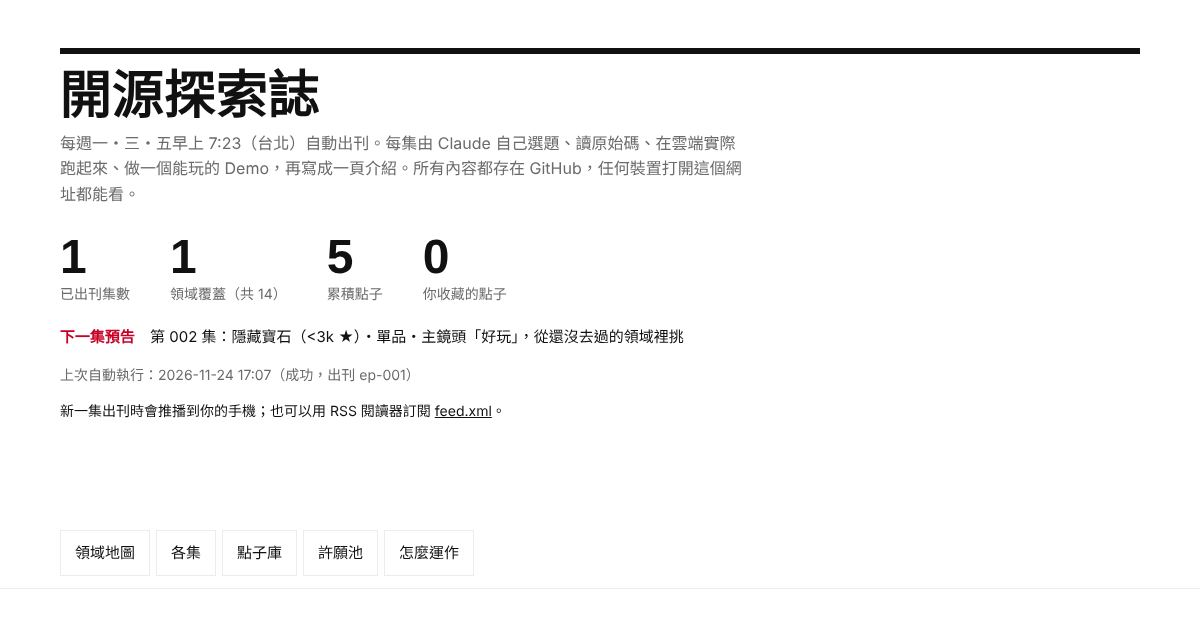
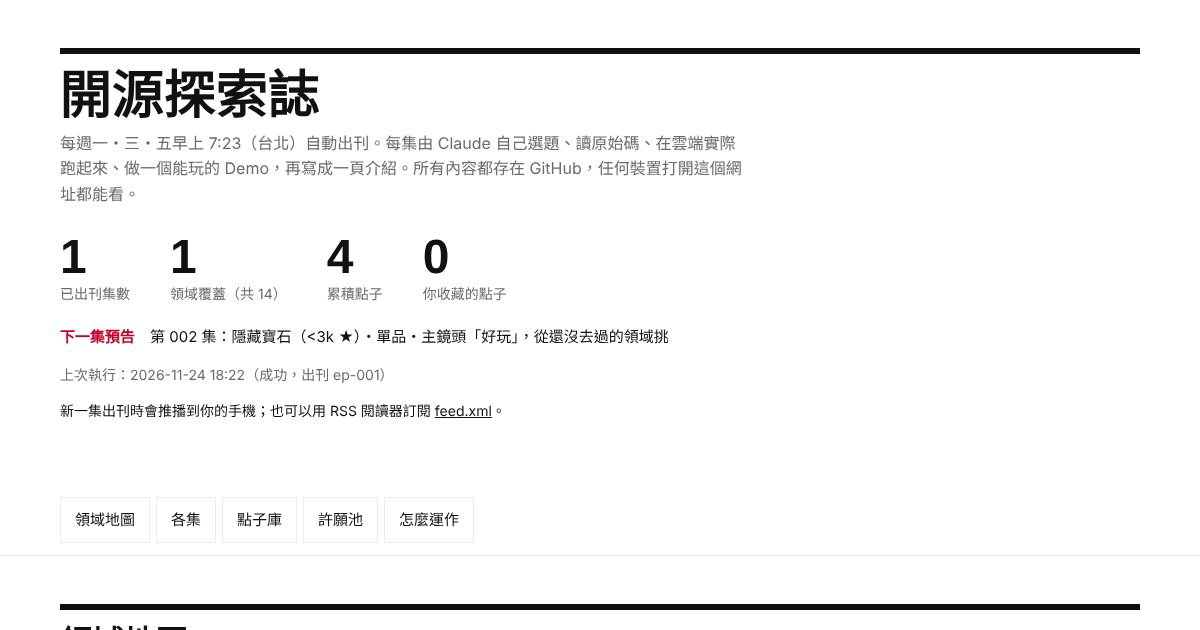
第 001 集：線上實玩後的修正（圖上直接拖動對照、手機版背景選項位置、授權改成表格、表格斷行）；首頁不顯示非數字星數
Claude-Session: https://claude.ai/code/session_015RxxCeQkojGTc1MStvDqzw

diff --git a/ep-001-rembg/index.html b/ep-001-rembg/index.html
@@ -48,7 +48,7 @@ button[aria-pressed=true]{border-color:var(--ink);box-shadow:inset 0 0 0 1px var
 .checker{background-color:var(--chk1);background-image:conic-gradient(var(--chk2) 25%,transparent 0 50%,var(--chk2) 0 75%,transparent 0);background-size:22px 22px}
 /* 去背台 */
 .desk{display:grid;grid-template-columns:minmax(0,300px) minmax(0,1fr);gap:18px;align-items:start}
-@media(max-width:860px){.desk{display:flex;flex-direction:column}.desk>.panel{display:contents}.desk>.panel>*{order:3}.desk>.panel>:first-child{order:1}.desk>.stagecol{order:2}}
+@media(max-width:860px){.desk{display:flex;flex-direction:column}.desk>.panel{display:contents}.desk>.panel>*{order:4}.desk>.panel>:first-child{order:1}.desk>.stagecol{order:2}.desk>.panel>.bgwrap{order:3}}
 .panel{display:grid;gap:16px}
 .panel .pt{margin:0 0 8px;font-size:15px;color:var(--mute);font-weight:600}
 .samples{display:grid;grid-template-columns:repeat(3,minmax(0,1fr));gap:8px}
@@ -61,7 +61,7 @@ button[aria-pressed=true]{border-color:var(--ink);box-shadow:inset 0 0 0 1px var
 .stats{display:grid;grid-template-columns:repeat(2,minmax(0,1fr));gap:10px;background:var(--card);border-radius:12px;padding:12px 14px}
 .stats div{font-size:13px;color:var(--mute)}.stats b{display:block;font:700 22px/1.2 var(--head);color:var(--ink);font-variant-numeric:tabular-nums}
 .private{font-size:13px;color:var(--mute);margin:0}
-.stage{position:relative;border-radius:16px;overflow:hidden;border:1px solid var(--line);aspect-ratio:3/2;display:grid;place-items:center}
+.stage{position:relative;border-radius:16px;overflow:hidden;border:1px solid var(--line);aspect-ratio:3/2;display:grid;place-items:center;cursor:ew-resize;touch-action:pan-y;user-select:none;-webkit-user-select:none}
 .stage canvas{position:absolute;inset:0;width:100%;height:100%;object-fit:contain}
 .stage .orig{clip-path:inset(0 calc(100% - var(--split,40%)) 0 0)}
 .stage .line{position:absolute;top:0;bottom:0;left:var(--split,40%);width:3px;background:var(--cut);transform:translateX(-1px);pointer-events:none;box-shadow:0 0 0 1px rgba(0,0,0,.15)}
@@ -97,6 +97,7 @@ table{border-collapse:collapse;width:100%;font-size:15px}
 th,td{text-align:left;padding:9px 10px;border-bottom:1px solid var(--line);vertical-align:top}
 th{font-weight:600;color:var(--mute);font-size:14px}
 td.n{text-align:right;font-variant-numeric:tabular-nums;white-space:nowrap}
+td:first-child{white-space:nowrap}
 .scroll{overflow-x:auto}
 #run .scroll:last-of-type table{max-width:860px}
 pre{background:var(--card);border-radius:12px;padding:14px 16px;font:14px/1.6 var(--mono);overflow-x:auto;margin:6px 0 0}
@@ -139,7 +140,7 @@ footer{color:var(--mute);font-size:14px}
         <input type="file" id="file" accept="image/*">
         <span>＋ 用你自己的照片（或拖曳到畫布上）</span>
       </label>
-      <div>
+      <div class="bgwrap">
         <p class="pt">背景</p>
         <div class="bgs" id="bgs">
           <button type="button" data-bg="checker" aria-pressed="true">透明</button>
@@ -155,7 +156,7 @@ footer{color:var(--mute);font-size:14px}
         <div><b id="sSize">–</b>圖片尺寸</div>
         <div><b id="sFg">–</b>前景比例</div>
       </div>
-      <p class="private">整個過程都在你的瀏覽器裡完成：照片沒有上傳到任何伺服器。網頁下載的只有模型（4.4 MB）、ONNX 執行引擎（約 15 MB）和字型。</p>
+      <p class="private">整個過程都在你的瀏覽器裡完成：照片沒有上傳到任何伺服器。網頁下載的只有模型（4.4 MB）、ONNX 執行引擎（檔案約 15 MB，傳輸時壓縮成約 4 MB）和字型。</p>
     </div>
     <div class="stagecol">
       <div class="stage checker" id="stage">
@@ -169,7 +170,7 @@ footer{color:var(--mute);font-size:14px}
       <input class="split" id="split" type="range" min="0" max="100" value="40" aria-label="原圖與去背結果的對照位置">
       <div class="stage-actions">
         <button type="button" id="download" disabled>下載 PNG</button>
-        <span class="note">拖動滑桿比較前後；下載的 PNG 會套用你選的背景（透明就保留透明）。</span>
+        <span class="note">直接在圖上左右拖（或用滑桿）比較前後；下載的 PNG 會套用你選的背景（透明就保留透明）。</span>
       </div>
       <p class="msg" id="msg" role="status"></p>
     </div>
@@ -253,8 +254,8 @@ footer{color:var(--mute);font-size:14px}
   <div class="scroll" style="margin-top:14px"><table class="stack"><thead><tr><th>模型</th><th>模型大小</th><th>咖啡杯</th><th>貓</th><th>火箭</th><th>行程 RSS 峰值（累計）</th><th>與 isnet 一致度（咖啡杯／貓／火箭）</th></tr></thead><tbody id="benchRows"></tbody></table></div>
   <p class="note">時間是 rembg Python 版每張圖 3 次的中位數。記憶體是依表格順序在同一個 Python 行程裡跑完該模型後的 RSS 峰值，包含函式庫本身的用量與前面的模型，只能看趨勢。「一致度」是各模型的遮罩跟 isnet-general-use 的 IoU，<b>不是準確率</b>（沒有人工標註的正解），只用來看模型之間差多少。birefnet-general-lite（224 MB）也試了，但單獨推論一張圖就用掉超過 6 GB 記憶體，在 8 GB 的機器上被系統終止，所以沒有列入。</p>
   <h3>B. 瀏覽器版跟 Python 版一樣嗎？</h3>
-  <p>上面的 Demo 是我照 rembg 的前後處理重寫成 JavaScript 的。用 Playwright 開真的 Chromium，對三張範例照片各跑三次取中位數，再跟 rembg Python 版在<b>同一張照片</b>上算出的遮罩比對。最後一欄是對照組：同樣用 Python，只把輸入從 scikit-image 原圖換成網頁上壓縮過的 JPEG，差異有多大。</p>
-  <div class="scroll"><table class="stack"><thead><tr><th>照片</th><th>瀏覽器推論時間</th><th>遮罩 IoU（瀏覽器 vs Python）</th><th>平均每像素差異（0–255）</th><th>對照：原圖 vs JPEG 的 IoU（都用 Python）</th></tr></thead><tbody id="parityRows"></tbody></table></div>
+  <p>上面的 Demo 是我照 rembg 的前後處理重寫成 JavaScript 的。用 Playwright 開真的 Chromium，對三張範例照片各跑三次取中位數，再跟 rembg Python 版在<b>同一張照片</b>上算出的遮罩比對。「對照組」那一欄：同樣用 Python，只把輸入從 scikit-image 原圖換成網頁上壓縮過的 JPEG，差異有多大。</p>
+  <div class="scroll"><table class="stack"><thead><tr><th>照片</th><th>瀏覽器推論時間</th><th>遮罩 IoU（瀏覽器 vs Python）</th><th>平均每像素差異（0–255）</th><th>對照組 IoU</th></tr></thead><tbody id="parityRows"></tbody></table></div>
   <p class="note" id="parityNote"></p>
 </section>
 
@@ -298,7 +299,18 @@ const prob = out[session.outputNames[0]].data;   // 320×320 的前景機率，m
 <section class="band" data-section="limits" id="limits">
   <h2>限制與比較</h2>
   <ul class="pit">
-    <li><b>程式 MIT，模型不一定。</b>rembg 的 README 寫明模型權重有各自的授權。目前的預設模型 BRIA RMBG-2.0 商用要付費簽約；u2net、u2netp 是 Apache-2.0；silueta 是社群在 U-2-Net 的 issue 裡釋出的縮小版，沒有另外宣告授權；isnet 的程式是 Apache-2.0，但訓練資料集 DIS5K 的使用條款限非商用研究或教育用途；BiRefNet 是 MIT（但 general 權重同樣用 DIS5K 訓練）；SAM 是 Apache-2.0。有趣的是，BRIA RMBG-2.0 本身就是 BiRefNet 架構、用 BRIA 自己取得授權的資料重新訓練。同一個架構，授權卻完全不同，關鍵在權重和訓練資料。做產品前，逐一確認你要用的模型。</li>
+    <li><b>程式 MIT，模型不一定。</b>rembg 的 README 寫明模型權重各有授權，而且<b>訓練資料的條款也會影響能不能商用</b>。做產品前，逐一確認你要用的模型：</li>
+  </ul>
+  <div class="scroll"><table class="stack"><thead><tr><th>模型</th><th>程式／權重授權</th><th>已知的訓練資料條款</th><th>商用</th></tr></thead><tbody>
+    <tr><td><b>u2net、u2netp</b></td><td>Apache-2.0</td><td>–</td><td>✅ 權重授權允許；本集 Demo 用的就是 u2netp</td></tr>
+    <tr><td><b>silueta</b></td><td>社群在 U-2-Net issue 裡釋出的縮小版，沒有另外宣告授權</td><td>–</td><td>⚠ 授權不明</td></tr>
+    <tr><td><b>isnet-general-use</b></td><td>程式 Apache-2.0，權重沒有另外宣告</td><td>DIS5K：限非商用研究或教育用途</td><td>⚠ 灰色地帶</td></tr>
+    <tr><td><b>BiRefNet</b></td><td>程式與權重 MIT</td><td>general 權重也用了 DIS5K</td><td>⚠ 灰色地帶</td></tr>
+    <tr><td><b>BRIA RMBG-2.0</b>（rembg 2.0.87 的預設）</td><td>權重 CC BY-NC 4.0</td><td>BRIA 自己取得授權的資料</td><td>❌ 要向 BRIA 購買授權</td></tr>
+    <tr><td><b>SAM</b></td><td>Apache-2.0</td><td>–</td><td>✅ 權重授權允許（用法是點選指定物體）</td></tr>
+  </tbody></table></div>
+  <p class="note">「–」代表這集沒有查證它的訓練資料條款；表格不是法律意見，正式商用前請自行確認。有趣的是，BRIA RMBG-2.0 本身就是 BiRefNet 架構，只是用 BRIA 自己的資料重新訓練：同一個架構，授權卻完全不同，關鍵在權重和訓練資料，不在程式碼。</p>
+  <ul class="pit">
     <li><b>大模型很吃記憶體。</b>實測跑到 isnet-general-use 時，Python 行程的記憶體峰值約 1.9 GB；birefnet-general-lite 在 8 GB 的機器上推論一張 600×400 的圖就超過 6 GB 被終止。要跑大模型的伺服器得規劃足夠的記憶體，或先把圖縮小。</li>
     <li><b>毛髮、半透明、主體不明確，是共同的弱點。</b>貓那張，U²-Net 系列在邊緣留下半透明的背景；火箭那張，各模型對「什麼是主體」意見分歧。需要精細邊緣時，rembg 另有 alpha matting 等後處理選項可以試。</li>
     <li><b>macOS 有內建對手。</b>macOS 14／iOS 17 起，Apple 的 Vision 框架提供 <code>VNGenerateForegroundInstanceMaskRequest</code>，可以擷取任何類別的前景主體，免費而且在裝置上跑。做 Apple 平台的 app，差異化要放在工作流程，不是去背本身。</li>
@@ -471,7 +483,14 @@ $("file").addEventListener("change",e=>runFile(e.target.files[0]).catch(()=>{}))
 ["dragover","dragenter"].forEach(ev=>stage.addEventListener(ev,e=>{e.preventDefault();stage.style.outline="3px dashed var(--cut)"}));
 ["dragleave","drop"].forEach(ev=>stage.addEventListener(ev,e=>{e.preventDefault();stage.style.outline=""}));
 stage.addEventListener("drop",e=>runFile(e.dataTransfer.files[0]).catch(()=>{}));
-$("split").addEventListener("input",e=>stage.style.setProperty("--split",e.target.value+"%"));
+const setSplit=v=>{v=Math.max(0,Math.min(100,Math.round(v)));$("split").value=v;stage.style.setProperty("--split",v+"%")};
+$("split").addEventListener("input",e=>setSplit(+e.target.value));
+// 直接在畫面上拖（滑鼠或手指左右拖）；touch-action:pan-y 讓手機上下捲動不受影響
+let dragging=false;
+const splitAt=e=>{const r=stage.getBoundingClientRect();setSplit((e.clientX-r.left)/r.width*100)};
+stage.addEventListener("pointerdown",e=>{if(e.button>0)return;dragging=true;stage.setPointerCapture(e.pointerId);splitAt(e)});
+stage.addEventListener("pointermove",e=>{if(dragging)splitAt(e)});
+["pointerup","pointercancel"].forEach(ev=>stage.addEventListener(ev,()=>{dragging=false}));
 $("bgs").addEventListener("click",e=>{const b=e.target.closest("button[data-bg]");if(!b)return;bgMode=b.dataset.bg;document.querySelectorAll("#bgs button").forEach(x=>x.setAttribute("aria-pressed",String(x===b)));drawBg()});
 $("download").addEventListener("click",()=>{
   if(!current)return; const {W,H}=current, c=canvasOf(W,H), g=c.getContext("2d");

diff --git a/index.html b/index.html
@@ -183,7 +183,7 @@ function renderEps(){
   if(!list.length){$("epList").innerHTML=`<div class="empty-state">沒有符合篩選條件的集數。</div>`;return}
   $("epList").innerHTML=list.map(e=>{
     const u=e.path?e.path:safeUrl(e.url);
-    const res=(e.resources||[]).map(x=>{const ru=safeUrl(x.url);return (ru?`<a href="${esc(ru)}">${esc(x.name)}</a>`:esc(x.name))+(x.license?` · ${esc(x.license)}`:"")+(x.stars?` · ★${esc(x.stars)}`:"")}).join("　／　");
+    const res=(e.resources||[]).map(x=>{const ru=safeUrl(x.url);return (ru?`<a href="${esc(ru)}">${esc(x.name)}</a>`:esc(x.name))+(x.license?` · ${esc(x.license)}`:"")+(x.stars&&/\d/.test(x.stars)?` · ★${esc(x.stars)}`:"")}).join("　／　");
     const tags=[e.domain,e.format,e.tier,e.lens&&("主鏡頭："+e.lens)].filter(Boolean).map((t,i)=>`<span class="tag${i===3?" hot":""}">${esc(t)}</span>`).join("")+(e.tags||[]).map(t=>`<span class="tag">${esc(t)}</span>`).join("");
     const hl=(e.highlights||[]).length?`<ul class="hl">${e.highlights.map(h=>`<li>${esc(h)}</li>`).join("")}</ul>`:"";
     return `<article class="ep" id="ep-${pad(e.no)}">
@@ -225,7 +225,7 @@ $("onlyStar").addEventListener("click",e=>{S.onlyStar=!S.onlyStar;e.currentTarge
     const last=Array.isArray(runs)&&runs.length?runs[runs.length-1]:null;
     if(last){const t=String(last.endedAt||"").replace("T"," ").slice(0,16),okr=last.status==="ok";
       const rl=$("runline");rl.classList.toggle("fail",!okr);
-      rl.textContent=okr?`上次自動執行：${t}（成功${last.episode?"，出刊 "+last.episode:""}）`:`上次自動執行：${t} 失敗：${last.note||"原因未記錄"}`;}
+      rl.textContent=okr?`上次執行：${t}（成功${last.episode?"，出刊 "+last.episode:""}）`:`上次執行：${t} 失敗：${last.note||"原因未記錄"}`;}
     $("status").textContent="";renderAll();
   }catch(e){$("status").textContent="資料讀取失敗，請重新整理。"}
 })();

diff --git a/ep-001-rembg/lab/qa_check.py b/ep-001-rembg/lab/qa_check.py
@@ -37,6 +37,17 @@ def check(page):
     page.dispatch_event("#split", "input")
     assert page.evaluate("getComputedStyle(document.getElementById('stage')).getPropertyValue('--split').trim()") == "75%", "對照滑桿沒有作用"
     log.append("對照滑桿正常")
+    # 直接在圖上拖（看起來能拖的把手就要能拖）
+    box = page.locator("#stage").bounding_box()
+    y = box["y"] + box["height"] / 2
+    page.mouse.move(box["x"] + box["width"] * 0.5, y)
+    page.mouse.down()
+    page.mouse.move(box["x"] + box["width"] * 0.2, y, steps=5)
+    page.mouse.up()
+    v = float(page.evaluate("getComputedStyle(document.getElementById('stage')).getPropertyValue('--split')").strip().rstrip("%"))
+    assert 15 <= v <= 25, f"在圖上拖動後對照位置應約 20%，實際 {v}%"
+    assert page.input_value("#split") == str(int(v)), "拖動後下方滑桿沒有同步"
+    log.append(f"在圖上直接拖動正常（{v:.0f}%）")
     # 上傳自己的照片（用火箭照片模擬）
     page.set_input_files("#file", str(IMG / "rocket.jpg"))
     page.wait_for_function("document.getElementById('sSize').textContent==='640×427'", timeout=30000)

diff --git a/ops/LESSONS.md b/ops/LESSONS.md
@@ -26,3 +26,4 @@
 - 2026-11-24：模型授權和程式授權是兩回事：rembg 程式是 MIT，但 2.0.87 的預設模型 BRIA RMBG-2.0 商用要付費。介紹 AI 工具時要逐一列出模型權重的授權，範例程式一律明確指定可商用的模型。
 - 2026-11-24：8 GB RAM 的工作區跑大型 ONNX 模型容易 OOM（birefnet-general-lite 單張就超過 6 GB）。benchmark 要每個模型 del session + gc.collect()，並用 /usr/bin/time -v 或 resource 記錄記憶體峰值；被終止本身就是值得寫進頁面的發現。
 - 2026-11-24：瀏覽器 Demo 若重寫了原專案的前後處理，要寫 lab/parity.py 用 Playwright 跑真 Chromium，跟原專案的輸出比對（IoU／平均差異），把數字放上頁面；這一步在 ep-001 抓到 wasm 路徑錯誤。
+- 2026-11-24：發布後要用真的瀏覽器親手玩一次線上版（不只看自動截圖）。ep-001 這樣抓到：圖上的對照把手看起來能拖卻拖不動、手機上換背景要捲回去才看得到結果、表格第一欄斷行、首頁對非 GitHub 資源顯示「★—」。自動測試只驗證你想到的事，親手玩才會發現沒想到的。

diff --git a/.claude/skills/oss-episode/design.md b/.claude/skills/oss-episode/design.md
@@ -30,3 +30,7 @@
 - 手機截圖裡有沒有東西被切掉、重疊、字太小？
 - 深色截圖裡有沒有看不清楚的文字或消失的線條？
 - 整頁捲完有沒有大片空白或排版斷掉的地方（`desktop-full.png`）？
+- **看起來能拖、能點的東西，就要真的能拖、能點**（例：圖上的對照把手）。qa_check 要用 `page.mouse` 實際拖一次。
+- 手機上：操作控制項（換背景、切換模式）要緊貼在它影響的畫面下方，不能讓人點完還要捲回去看結果。
+- 表格的第一欄（名稱）不要斷行；欄名過長就縮短，把說明寫在表格上方。
+- 一段超過 4 行、塞滿專有名詞的條列，改成表格（例：各模型的授權）。
